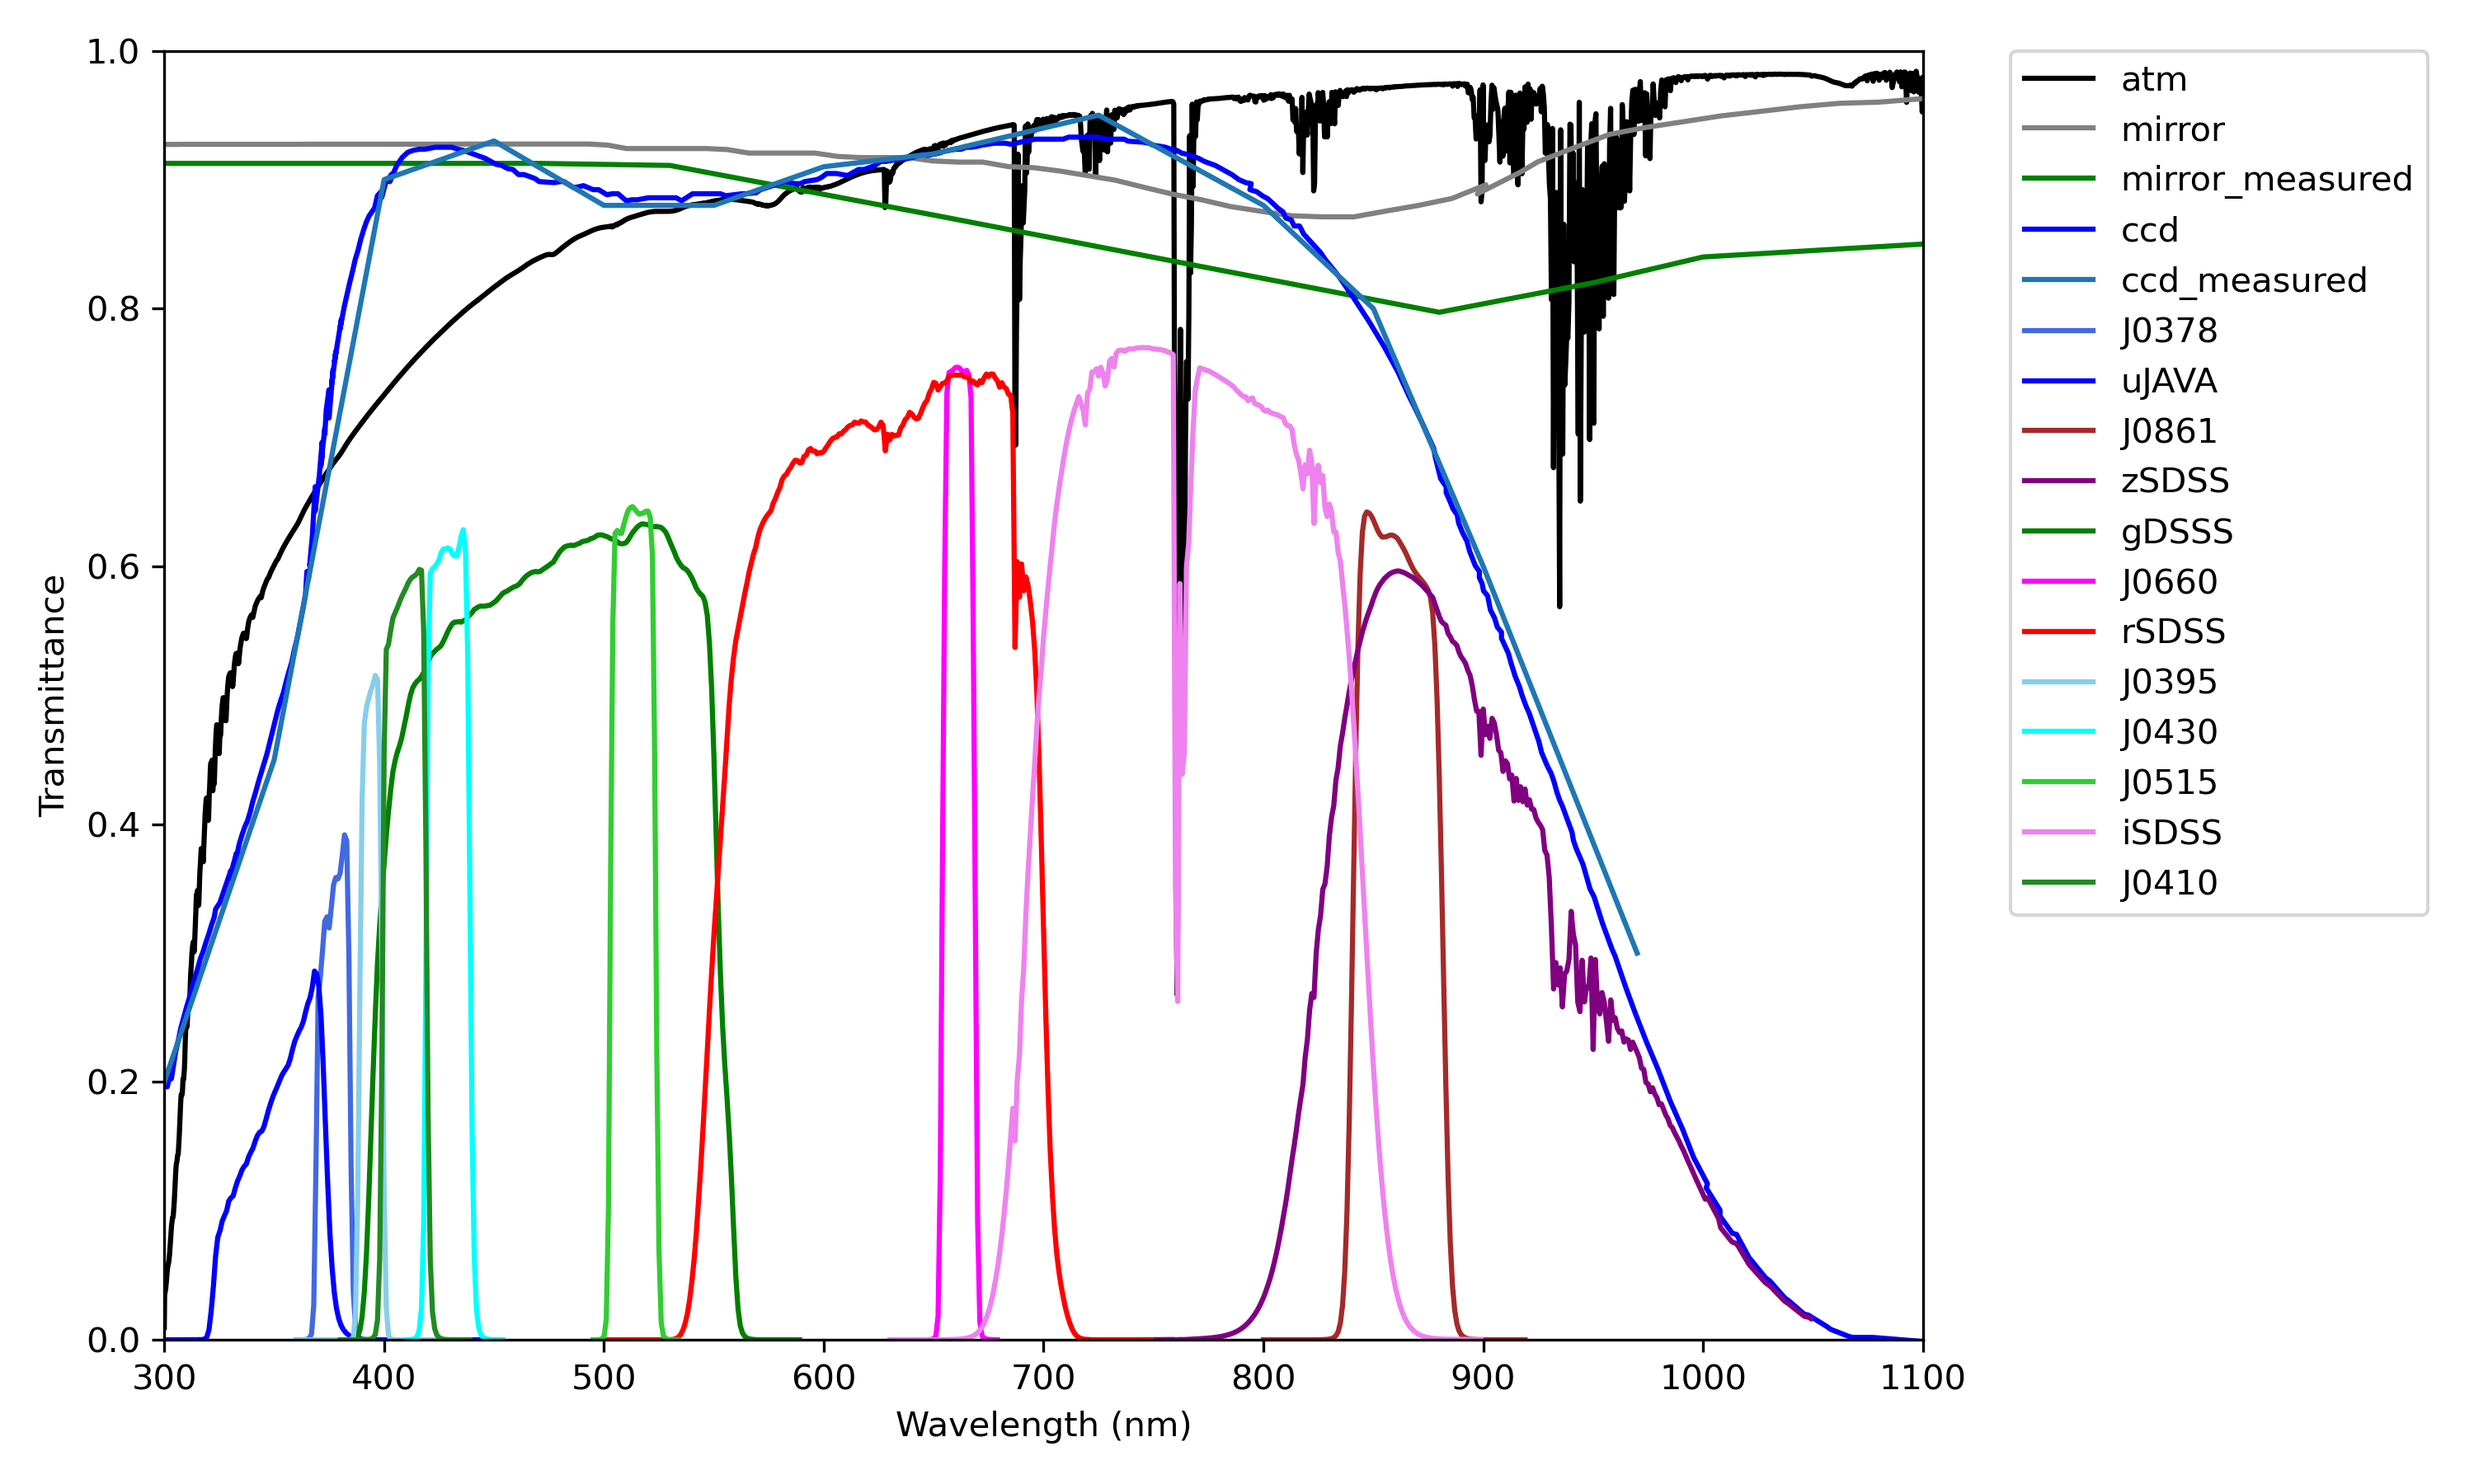
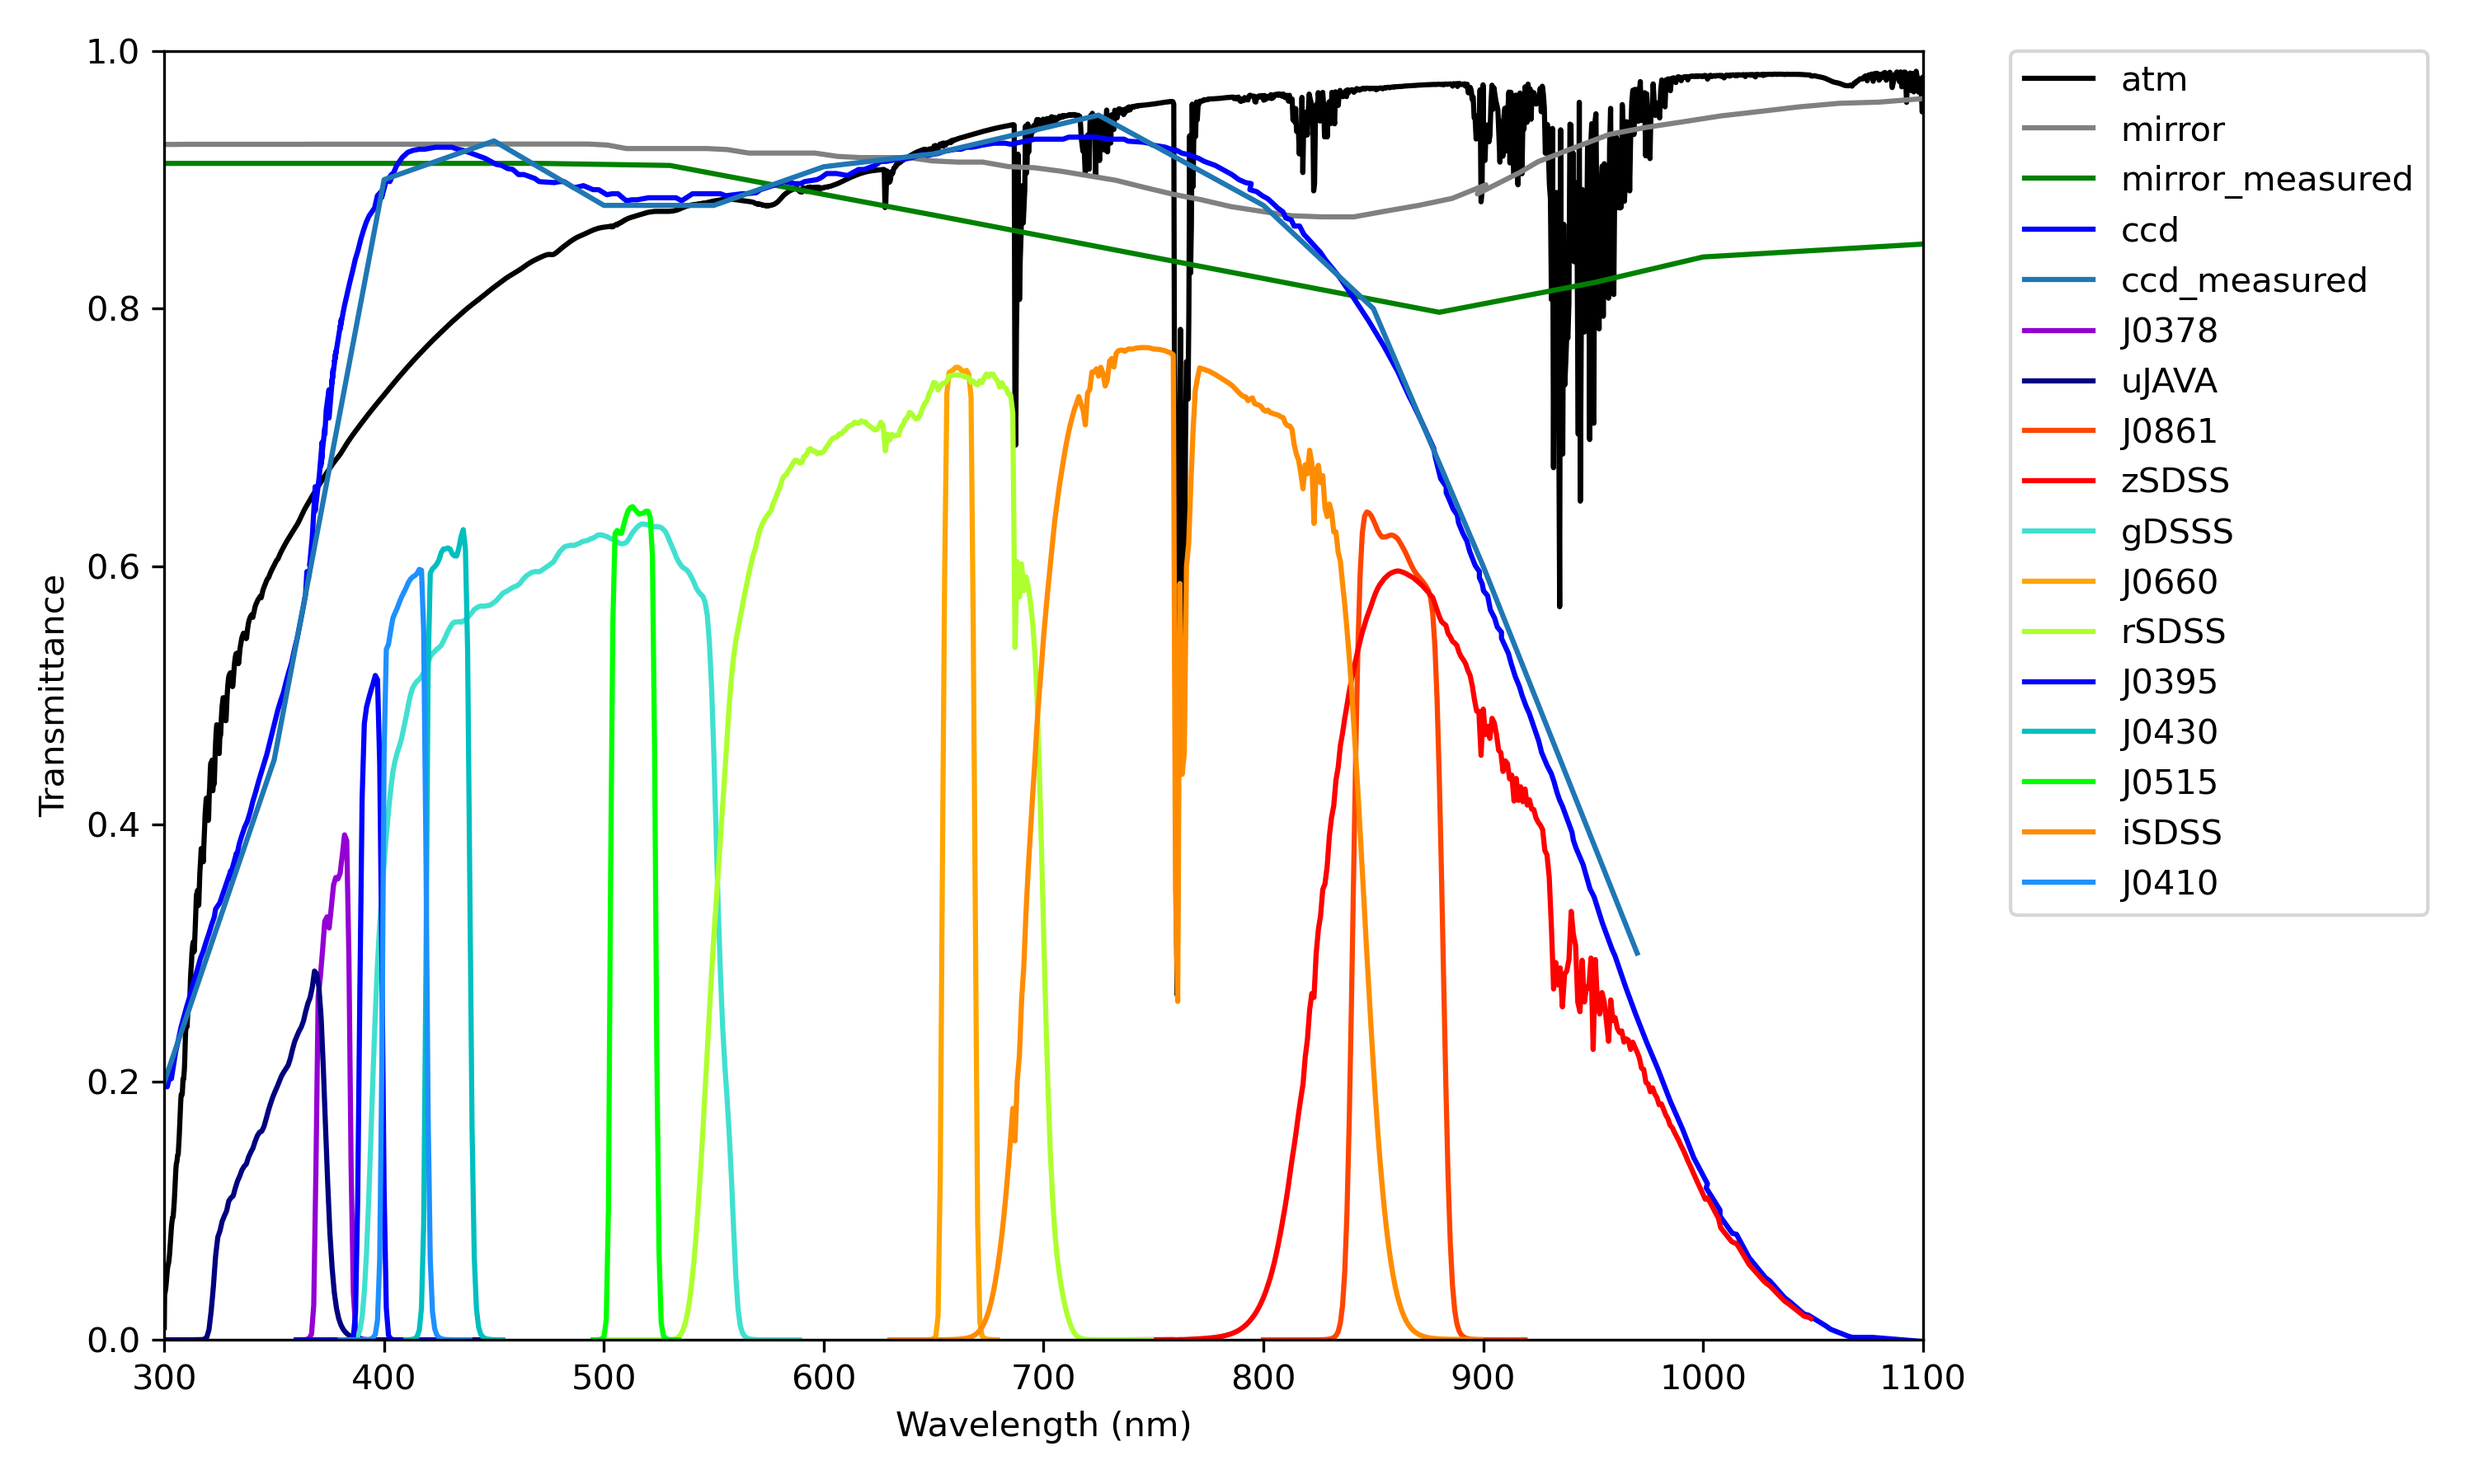
Add method to plot the public usage filters figure

diff --git a/calculate_splus_filters.py b/calculate_splus_filters.py
@@ -6,7 +6,7 @@ import matplotlib.pyplot as plt
 import os
 import argparse
 import pandas as pd
-from astropy.io import ascii, fits
+from astropy.io import fits
 import glob
 
 
@@ -31,6 +31,8 @@ def get_args():
                         help='Show the individual filters. Only activate when --save_csv_filters is used.')
     parser.add_argument('--save_lab_fig', action='store_true',
                         help='Save the plot of the lab filters.')
+    parser.add_argument('--loglevel', type=str, help='Log level.',
+                        default='INFO')
 
     # if len(sys.argv) == 1:
     #     parser.print_help()
@@ -43,18 +45,18 @@ def get_args():
 def main(args):
 
     fnames2filters = {
-        '20150918C080uJAVA02': {'fname': 'uJAVA', 'color': 'b'},
-        '20150429C080F037802': {'fname': 'J0378', 'color': 'royalblue'},
-        '20150922C080F039502': {'fname': 'J0395', 'color': 'skyblue'},
-        '20150923C080F041002': {'fname': 'J0410', 'color': 'forestgreen'},
-        '20150514C080F043002': {'fname': 'J0430', 'color': 'cyan'},
-        '20150924C080gSDSS02': {'fname': 'gDSSS', 'color': 'g'},
-        '20140606C080F051502': {'fname': 'J0515', 'color': 'limegreen'},
-        '20140604C080F062502': {'fname': 'rSDSS', 'color': 'r'},
-        '20140609C080F066002': {'fname': 'J0660', 'color': 'magenta'},
-        '20150506C080iSDSS02': {'fname': 'iSDSS', 'color': 'violet'},
-        '20150922C080F086102': {'fname': 'J0861', 'color': 'brown'},
-        '20150504C080zSDSS02': {'fname': 'zSDSS', 'color': 'purple'}}
+        '20150918C080uJAVA02': {'fname': 'uJAVA', 'color': 'navy', 'pos': (3563, -500, -4)},
+        '20150429C080F037802': {'fname': 'J0378', 'color': 'darkviolet', 'pos': (3770, -350, 1)},
+        '20150922C080F039502': {'fname': 'J0395', 'color': 'b', 'pos': (3940, -400, 1)},
+        '20150923C080F041002': {'fname': 'J0410', 'color': 'dodgerblue', 'pos': (4094, -350, -0.1)},
+        '20150514C080F043002': {'fname': 'J0430', 'color': 'c', 'pos': (4292, -400, 1.3)},
+        '20150924C080gSDSS02': {'fname': 'gDSSS', 'color': 'turquoise', 'pos': (4751, -300, 0.)},
+        '20140606C080F051502': {'fname': 'J0515', 'color': 'lime', 'pos': (5133, -100, 1.5)},
+        '20140604C080F062502': {'fname': 'rSDSS', 'color': 'greenyellow', 'pos': (6258, -500, -2)},
+        '20140609C080F066002': {'fname': 'J0660', 'color': 'orange', 'pos': (6614, -300, 1)},
+        '20150506C080iSDSS02': {'fname': 'iSDSS', 'color': 'darkorange', 'pos': (7690, -300, 1)},
+        '20150922C080F086102': {'fname': 'J0861', 'color': 'orangered', 'pos': (8611, -250, 1)},
+        '20150504C080zSDSS02': {'fname': 'zSDSS', 'color': 'r', 'pos': (8831, 300, -12)}}
 
     lab_filters = get_lab_curves(args)
     plot_lab_curves(lab_filters, fnames2filters, 'lab_curves.png', args)
@@ -62,8 +64,7 @@ def main(args):
     allcurves = calc_trasm_curve(lab_filters, fnames2filters, args)
     plot_lab_curves(allcurves, fnames2filters, 'convoluted_curves.png', args)
     plot_all_curves(allcurves, args)
-    # next
-    # make_final_plot(allcurves, args)
+    make_final_plot(allcurves, fnames2filters, args)
     # calculate_central_lambda(allcurves, args)
     return allcurves
 
@@ -86,15 +87,12 @@ def get_lab_curves(args):
                     break
                 n += 1
             f.close()
-        # filter_filename = os.path.join(work_dir, data_dir, filter_file)
         print(n)
         df = pd.read_csv(filter_file, delimiter='\t',
                          decimal=',', skiprows=n, header=None)
-        # print(df.head())
         mid_columns_average = df[df.columns[2:-1]].mean(axis=1)
         transmission_mean = mid_columns_average / df[[1, 102]].mean(axis=1)
         wave = df[0]
-        # print(list(zip((wave, transmission_mean))))
 
         lab_filters[filter_file.split('/')[-1].split('.')[0]] = \
             {'wave': wave, 'transm': transmission_mean}
@@ -231,10 +229,29 @@ def plot_all_curves(allcurves, args):
     plt.show()
 
 
-def make_final_plot(allcurves, args):
+def make_final_plot(allcurves, fnames2filters, args):
     print('Making final plot')
     work_dir = args.work_dir
-    # TODO: make pretty plot for publication
+    fig = plt.figure(figsize=(8, 4))
+    for key in fnames2filters.keys():
+        plt.plot(allcurves[key]['wave'] * 10.,
+                 allcurves[key]['transm'] * 100.,
+                 color=fnames2filters[key]['color'],
+                 label=fnames2filters[key]['fname'], lw=2)
+        plt.text(fnames2filters[key]['pos'][0] + fnames2filters[key]['pos'][1],
+                 max(allcurves[key]['transm'] * 100.) +
+                 fnames2filters[key]['pos'][2],
+                 fnames2filters[key]['fname'], fontsize=12, color=fnames2filters[key]['color'])
+
+    plt.xlabel(r'$\lambda\ \mathrm{[\AA]}$', fontsize=16)
+    plt.ylabel(r'$R_\lambda\ \mathrm{[\%]}$', fontsize=16)
+    plt.xlim(3000, 10000)
+    plt.ylim(0.2, 83)
+    plt.tight_layout()
+
+    plt.savefig(os.path.join(work_dir, 'splus_filters.png'),
+                format='png', dpi=300)
+    plt.show(block=False)
 
 
 def calculate_central_lamda(allcurves, args):
@@ -247,57 +264,3 @@ def calculate_central_lamda(allcurves, args):
 if __name__ == '__main__':
     args = get_args()
     allcurves = main(args)
-
-
-# f = ascii.read(Filter)
-# # f = fits.open(Filter)[1].data
-#
-# wave = f['col0']*10.
-# flux = f['col1']
-# # wave = f.wavelength * 10.
-# # flux = f.transmit
-#
-# halfheight = flux.max() / 2.
-#
-# interp = interp1d(wave, flux)
-# synwave = np.linspace(wave.min(), wave.max(), 100000)
-# syncol = interp(synwave)
-#
-# cont = True
-# inivalue = 0.0001
-# while cont:
-#     mask = (syncol > 0.01) & (syncol > (halfheight - inivalue)
-#                               ) & (syncol < (halfheight + inivalue))
-#     if mask.sum() >= 2:
-#         minlam = synwave[mask][0]
-#         maxlam = synwave[mask][-1]
-#         # if (maxlam - minlam) < 90.:
-#         #    minlam = np.mean(synwave[mask])
-#         #    maxlam = max(synwave)
-#         cont = False
-#     else:
-#         cont = True
-#         inivalue += inivalue
-#
-#
-# diff = maxlam - minlam
-# leff = (maxlam + minlam) / 2.
-#
-# plt.plot(wave, flux, c=color, label='obs')
-# plt.plot([minlam, maxlam], [halfheight, halfheight], c='k',
-#          label=r'$\Delta\lambda = %.0f\mathrm{\AA}$' % diff)
-# plt.scatter(minlam, halfheight, color='k', marker='d',
-#             label=r'$\lambda_0 = %.0f$' % minlam)
-# plt.scatter(maxlam, halfheight, color='k', marker='d',
-#             label=r'$\lambda_1 = %.0f$' % maxlam)
-# plt.scatter(leff, halfheight, marker='o', color='k',
-#             label=r'$\lambda_\mathrm{eff} = %.0f\mathrm{\AA}$' % leff)
-# plt.legend(loc='upper right')
-# plt.grid()
-#
-# if save_fig:
-#     plt.title(sys.argv[3])
-#     print('safing fig', sys.argv[1].split('.')[0] + '.png')
-#     plt.savefig(sys.argv[1].split('.')[0] + '.png', format='png', dpi=100)
-#
-# plt.show()
